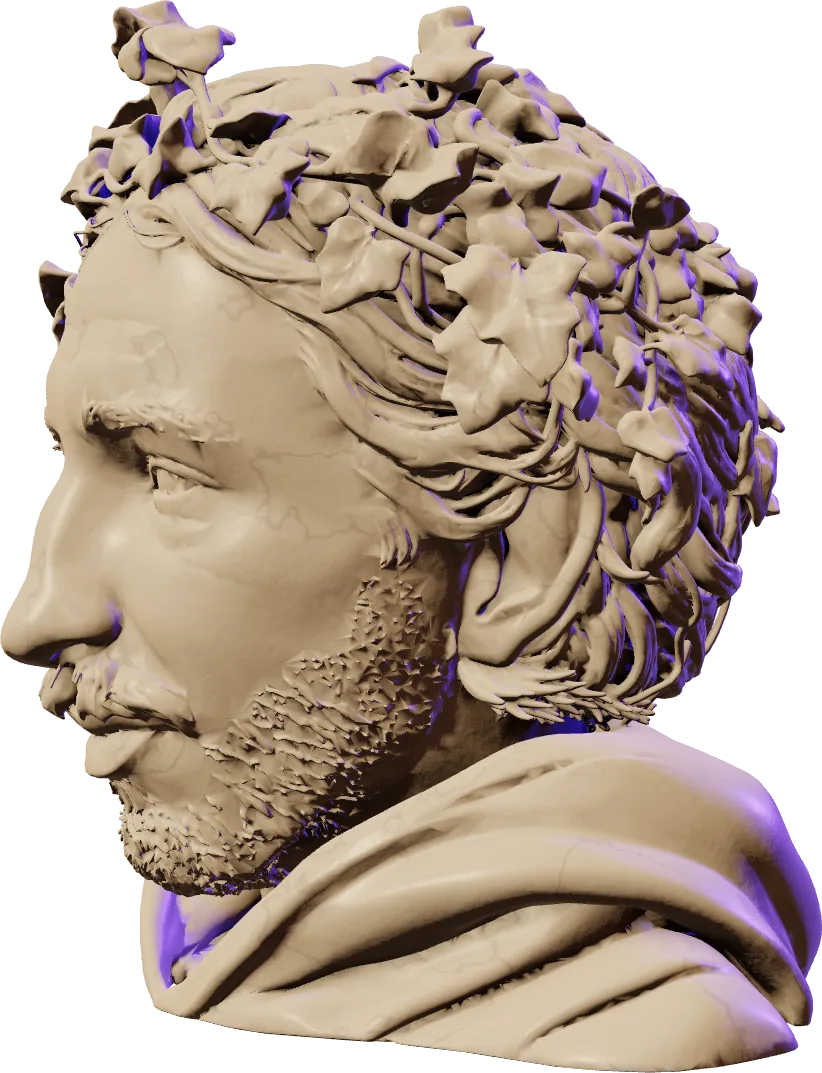
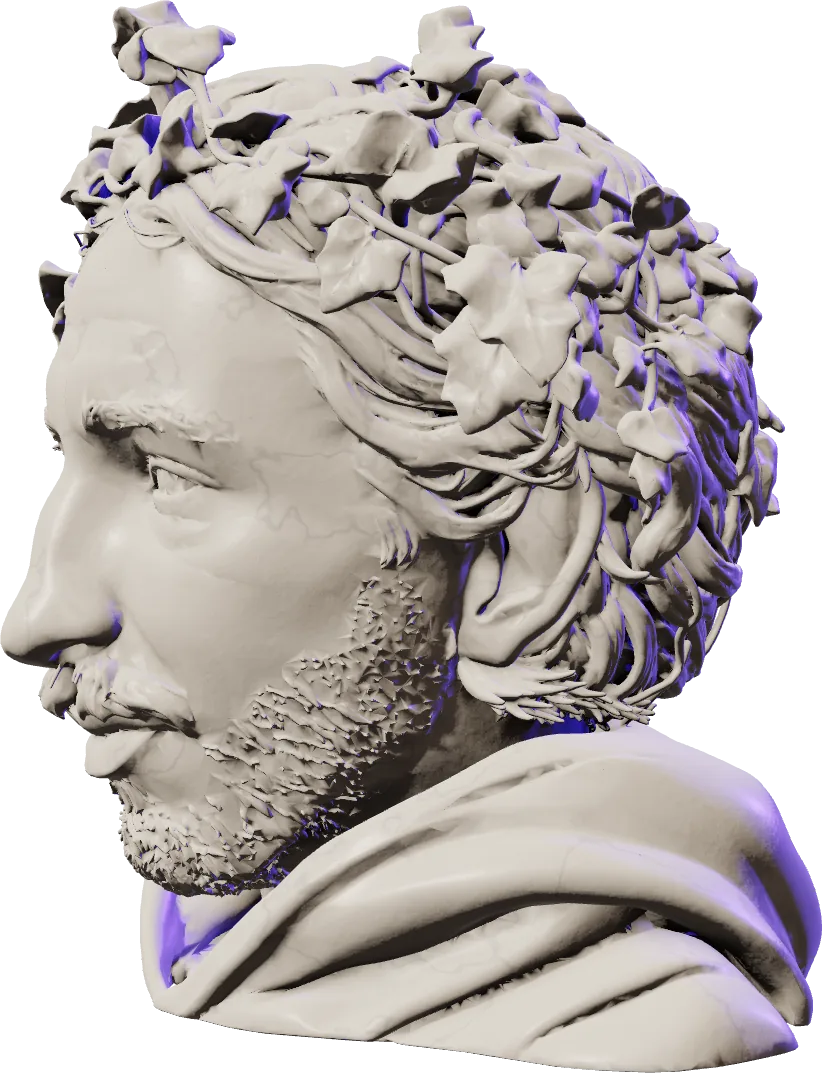
Whiter marble and a smoother head
- Carrara instead of cream: the painting that lights the head is mostly
  drained of colour (it brushes the stone rather than tinting it), a
  whiter base and sheen, a cooler key light and vein grey, a touch more
  exposure. Stills, print and share card re-rendered.
- The head turns on a soft spring (stiffness 60, just under critical
  damping), stepped at 240 Hz so it starts gently, follows quickly and
  settles the same at any frame rate; it replaces the per-frame ease that
  jolted on start and dragged at the end.
- Resolution capped at 1.5x and lowered by itself (down to 1x) when frames
  run over ~28ms, so slow GPUs draw fewer pixels instead of stuttering.

Claude-Session: https://claude.ai/code/session_01WN3sWN5qWiKMxGn6tEwJvG

diff --git a/src/bustLook.js b/src/bustLook.js
@@ -17,13 +17,13 @@ float fbm(vec3 p){float v=0.,a=.5;for(int k=0;k<5;k++){v+=a*n3(p);p*=2.03;a*=.5;
 
 export function setupRenderer(renderer) {
   renderer.toneMapping = THREE.ACESFilmicToneMapping;
-  renderer.toneMappingExposure = 1.08;
+  renderer.toneMappingExposure = 1.17;
 }
 
 // Warm key from the painting above, a cobalt rim from behind. The painting
 // itself (the environment) does the soft fill.
 export function addBustLights(scene) {
-  const key = new THREE.DirectionalLight(0xffe2b8, 2.1);
+  const key = new THREE.DirectionalLight(0xfff2e0, 2.1);
   key.position.set(-1.2, 1.5, 1.2);
   const rim = new THREE.DirectionalLight(0x5b3cff, 2.8);
   rim.position.set(1.4, 0.6, -1.2);
@@ -43,12 +43,22 @@ export function loadEnvironment(renderer) {
       canvas.height = h;
       const ctx = canvas.getContext("2d");
       const horizon = h * 0.56;
-      // sky: the painting, wrapped once around
+      // sky: the painting, wrapped once around, mostly drained of colour so
+      // it lights the stone white and only brushes it with the fresco's hues
       ctx.drawImage(image, 0, 0, w, horizon);
-      // ground: the painting's warm dark fading into the page colour
+      const sky = ctx.getImageData(0, 0, w, Math.ceil(horizon));
+      for (let i = 0; i < sky.data.length; i += 4) {
+        const [r, g, b] = [sky.data[i], sky.data[i + 1], sky.data[i + 2]];
+        const grey = 0.299 * r + 0.587 * g + 0.114 * b;
+        sky.data[i] = Math.min(255, (grey + (r - grey) * 0.4) * 1.12);
+        sky.data[i + 1] = Math.min(255, (grey + (g - grey) * 0.4) * 1.12);
+        sky.data[i + 2] = Math.min(255, (grey + (b - grey) * 0.4) * 1.12);
+      }
+      ctx.putImageData(sky, 0, 0);
+      // ground: a neutral dark fading into the page colour
       const ground = ctx.createLinearGradient(0, horizon - 40, 0, h);
-      ground.addColorStop(0, "rgba(70, 52, 40, 0.0)");
-      ground.addColorStop(0.12, "rgba(58, 44, 36, 1)");
+      ground.addColorStop(0, "rgba(64, 60, 58, 0.0)");
+      ground.addColorStop(0.12, "rgba(56, 53, 52, 1)");
       ground.addColorStop(1, "rgba(18, 16, 16, 1)");
       ctx.fillStyle = ground;
       ctx.fillRect(0, horizon - 40, w, h - horizon + 40);
@@ -78,13 +88,13 @@ export function bustMaterial(height, hasShade) {
     uHasShade: { value: hasShade ? 1 : 0 },
   };
   const material = new THREE.MeshPhysicalMaterial({
-    color: 0xf4f0e9,
+    color: 0xf7f5f1,
     roughness: 0.4,
     metalness: 0,
     clearcoat: 0.16,
     clearcoatRoughness: 0.45,
     sheen: 0.55,
-    sheenColor: new THREE.Color(0xffe2bf),
+    sheenColor: new THREE.Color(0xfff6ec),
     sheenRoughness: 0.6,
     envMapIntensity: 0.85,
   });
@@ -119,7 +129,7 @@ vec3 mp = vP / uHeight * 6.0;
 float mt = fbm(mp * 1.3);
 float vein = 1.0 - smoothstep(0.0, 0.12, abs(sin(mp.x * 1.7 + mp.y * 0.9 + mt * 7.0)));
 float fine = 1.0 - smoothstep(0.0, 0.035, abs(sin(mp.y * 3.1 - mp.z * 2.0 + fbm(mp * 2.7) * 9.0)));
-vec3 marble = mix(diffuseColor.rgb, vec3(0.56, 0.54, 0.57), vein * 0.5 + fine * 0.22);
+vec3 marble = mix(diffuseColor.rgb, vec3(0.58, 0.58, 0.61), vein * 0.5 + fine * 0.22);
 marble *= 0.94 + 0.06 * fbm(mp * 6.0);
 // how open this point is: 1 on the cheek, low deep in the ivy and curls
 float open = mix(1.0, smoothstep(0.02, 0.78, vShade), uHasShade);
@@ -165,7 +175,7 @@ float contour = 1.0 - min(abs(fract(yy) - 0.5) / max(fwidth(yy), 1e-4), 1.0);
 float rim = pow(1.0 - abs(dot(normal, normalize(vViewPosition))), 2.5);
 totalEmissiveRadiance += blue * vec3(0.75, 1.0, 0.0) * (contour * 0.9 + rim * 0.5);
 // marble lets a little warm light through its thin, open edges
-totalEmissiveRadiance += (1.0 - blue) * vec3(0.95, 0.66, 0.42) * 0.07 * rim * open;
+totalEmissiveRadiance += (1.0 - blue) * vec3(0.95, 0.82, 0.7) * 0.06 * rim * open;
 float cut = 1.0 - smoothstep(0.0, 1.5 * uDpr, abs(gl_FragCoord.x - seamX));
 totalEmissiveRadiance += vec3(1.0, 1.0, 0.0) * cut * step(0.002, uSeam) * step(uSeam, 0.998) * 2.0;`,
       );

diff --git a/src/BustScene.jsx b/src/BustScene.jsx
@@ -34,6 +34,11 @@ const MODES = {
   },
 };
 
+// The head's spring: stiffness and damping (just under critical, so it
+// arrives softly with no visible overshoot). Settles in about half a second.
+const SPRING = 60;
+const DAMPING = 2 * Math.sqrt(SPRING) * 0.95;
+
 const clamp01 = (v) => Math.min(1, Math.max(0, v));
 const smooth = (t) => t * t * (3 - 2 * t);
 
@@ -64,7 +69,9 @@ export default function BustScene({ stageRef, mode = "about" }) {
     } catch {
       return undefined; // no WebGL: the still image stays
     }
-    const dpr = Math.min(window.devicePixelRatio || 1, 2);
+    // Sharp enough on high-density screens without drawing 4x the pixels;
+    // drops further on its own if frames run slow (see `adapt`).
+    let dpr = Math.min(window.devicePixelRatio || 1, 1.5);
     renderer.setPixelRatio(dpr);
     setupRenderer(renderer);
     renderer.domElement.className = "bust-canvas";
@@ -88,6 +95,9 @@ export default function BustScene({ stageRef, mode = "about" }) {
     let frame = 0;
     let yaw = 0;
     let pitch = 0;
+    let yawSpeed = 0;
+    let pitchSpeed = 0;
+    let slowFrames = 0;
     let targetYaw = 0;
     let targetPitch = 0;
     let lastFrame = 0;
@@ -131,20 +141,46 @@ export default function BustScene({ stageRef, mode = "about" }) {
         return;
       }
       const seamMoved = updateSeam();
-      // ease by time, not frames, so slow machines turn just as fast
       const dt = lastFrame ? Math.min(now - lastFrame, 100) : 16.7;
       lastFrame = now;
-      const ease = 1 - Math.pow(0.94, dt / 16.7);
-      yaw += (targetYaw - yaw) * ease;
-      pitch += (targetPitch - pitch) * ease;
+      adapt(dt);
+      // A soft spring toward the cursor: starts gently, follows quickly,
+      // settles without a bump. Stepped in small slices so it stays smooth
+      // and identical at any frame rate.
+      for (let left = dt / 1000; left > 0; left -= 1 / 240) {
+        const h = Math.min(left, 1 / 240);
+        yawSpeed += (SPRING * (targetYaw - yaw) - DAMPING * yawSpeed) * h;
+        pitchSpeed +=
+          (SPRING * (targetPitch - pitch) - DAMPING * pitchSpeed) * h;
+        yaw += yawSpeed * h;
+        pitch += pitchSpeed * h;
+      }
       pivot.rotation.set(pitch, setup.baseYaw + yaw, 0);
       draw();
       const turning =
         Math.abs(targetYaw - yaw) > 0.0004 ||
-        Math.abs(targetPitch - pitch) > 0.0004;
+        Math.abs(targetPitch - pitch) > 0.0004 ||
+        Math.abs(yawSpeed) > 0.002 ||
+        Math.abs(pitchSpeed) > 0.002;
       if (turning || seamMoved) frame = requestAnimationFrame(loop);
-      else lastFrame = 0;
+      else {
+        lastFrame = 0;
+        yawSpeed = 0;
+        pitchSpeed = 0;
+      }
     };
+    // If the machine cannot keep up (frames over ~28ms for a while), draw
+    // fewer pixels rather than stutter.
+    function adapt(dt) {
+      slowFrames = dt > 28 ? slowFrames + 1 : Math.max(0, slowFrames - 1);
+      if (slowFrames > 20 && dpr > 1) {
+        dpr = Math.max(1, dpr - 0.25);
+        renderer.setPixelRatio(dpr);
+        if (uniforms) uniforms.uDpr.value = dpr;
+        resize();
+        slowFrames = 0;
+      }
+    }
     const start = () => {
       if (!reduce && !frame) frame = requestAnimationFrame(loop);
     };
